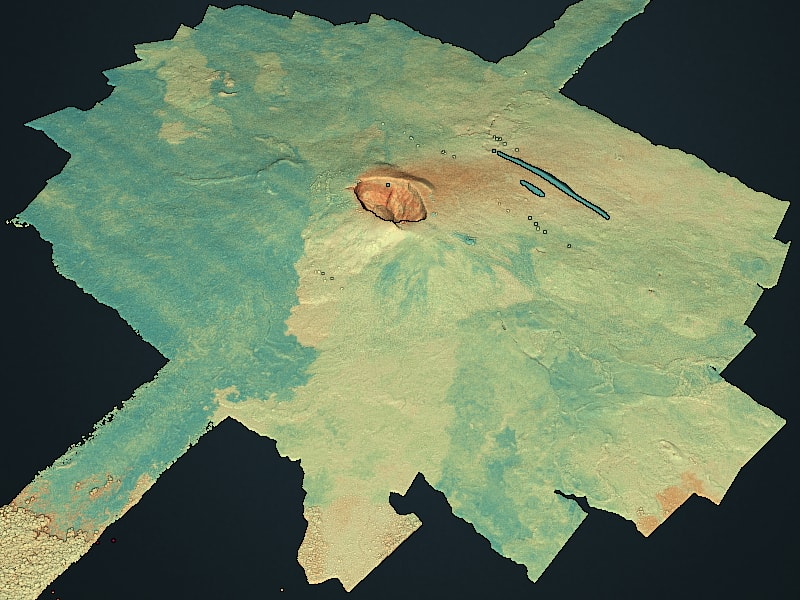
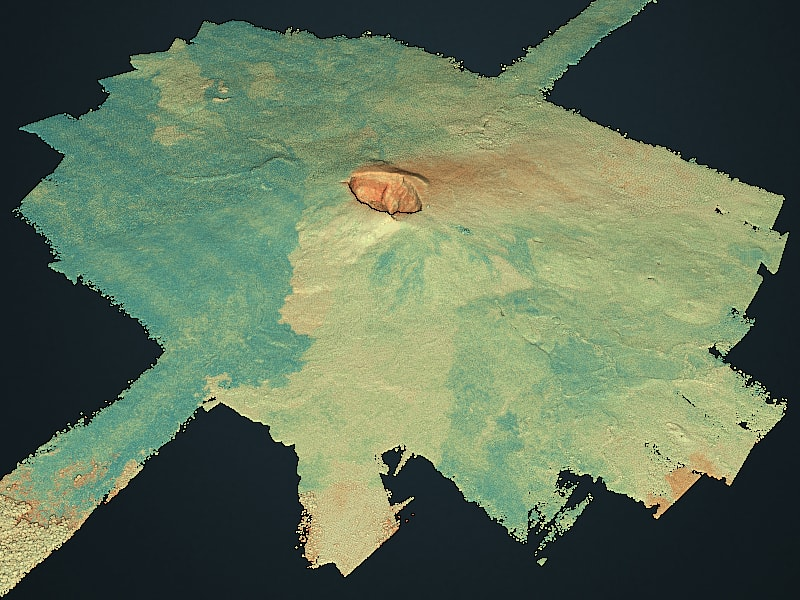
Move data link path, add explicit 'browse' link, update thumbnail with less noisy version.

Changed region(s): [[0.0, 0.0, 1.0, 1.0]]

diff --git a/data/kilauea.html b/data/kilauea.html
@@ -1,116 +1,6 @@
-<!DOCTYPE html>
-<html lang="en">
-<head>
-	<meta charset="utf-8">
-	<meta name="description" content="">
-	<meta name="author" content="">
-	<meta name="viewport" content="width=device-width, initial-scale=1.0, user-scalable=no">
-	<title>Potree Viewer</title>
-
-	<link rel="stylesheet" type="text/css" href="../build/potree/potree.css">
-	<link rel="stylesheet" type="text/css" href="../libs/jquery-ui/jquery-ui.min.css">
-	<link rel="stylesheet" type="text/css" href="../libs/perfect-scrollbar/css/perfect-scrollbar.css">
-	<link rel="stylesheet" type="text/css" href="../libs/openlayers3/ol.css">
-	<link rel="stylesheet" type="text/css" href="../libs/spectrum/spectrum.css">
-	<link rel="stylesheet" type="text/css" href="../libs/jstree/themes/mixed/style.css">
-    <link rel="stylesheet" href="../css/entwine.css" type="text/css">
-</head>
-<body>
-	<script src="../libs/jquery/jquery-3.1.1.min.js"></script>
-	<script src="../libs/spectrum/spectrum.js"></script>
-	<script src="../libs/perfect-scrollbar/js/perfect-scrollbar.jquery.js"></script>
-	<script src="../libs/jquery-ui/jquery-ui.min.js"></script>
-	<script src="../libs/three.js/build/three.min.js"></script>
-	<script src="../libs/other/BinaryHeap.js"></script>
-	<script src="../libs/tween/tween.min.js"></script>
-	<script src="../libs/d3/d3.js"></script>
-	<script src="../libs/proj4/proj4.js"></script>
-	<script src="../libs/openlayers3/ol.js"></script>
-	<script src="../libs/i18next/i18next.js"></script>
-	<script src="../libs/jstree/jstree.js"></script>
-	<script src="../build/potree/potree.js"></script>
-	<script src="../libs/plasio/js/laslaz.js"></script>
-    <script src="../libs/clipboard.min.js" type="text/javascript"></script>
-    <script type="text/javascript">
-        window.config = {
-            resource: 'kilauea',
-            edlStrength: 1,
-            pointSize: 3,
-            pointType: Potree.PointSizeType.FIXED,
-            material: Potree.PointColorType.INTENSITY_GRADIENT,
-            intensityRange: [0, 65536],
-            intensityBrightness: 0.18,
-            position: [-17266599.507, 2200053.468, 1809.513],
-            target: [-17266246.955, 2200818.568, 782.359],
-            annotations: [{
-                name: "Puʻu ʻŌʻō",
-                pos: [-17266198.860, 2200626.630, 860.710],
-                cpos: [-17266321.747, 2200763.819, 1207.182],
-                ctgt: [-17266320.945, 2200784.620, 594.822]
-            }, {
-                name: "Hiʻiaka Crater",
-                pos: [-17280267.940, 2198979.270, 978.800],
-                cpos: [-17280351.699, 2198879.858, 1210.292],
-                ctgt: [-17280186.390, 2199020.028, 993.929]
-            }, {
-                name: "Pauahi Crater",
-                pos: [-17279436.620, 2198351.710, 994.300],
-                cpos: [-17279049.765, 2198152.298, 1225.437],
-                ctgt: [-17279284.789, 2198437.478, 906.290],
-            }, {
-                name: "Pu'u Huluhulu",
-                pos: [-17277363.710, 2198683.420, 1047.790],
-                cpos: [-17277321.159, 2198679.615, 1292.821],
-                ctgt: [-17277322.415, 2198717.377, 1021.188]
-            }, {
-                name: "Fissure 9",
-                pos: [-17245101.620, 2208889.660, 246.560],
-                cpos: [-17245089.236, 2208881.496, 438.650],
-                ctgt: [-17245086.106, 2208894.391, 293.535],
-            }, {
-                name: "Fissure 10",
-                pos: [-17245771.410, 2208584.240, 261.420],
-                cpos: [-17245764.192, 2208580.524, 409.342],
-                ctgt: [-17245764.210, 2208581.779, 280.054]
-            }, {
-                name: "Fissure 11",
-                pos: [-17246078.000, 2208386.900, 267.750],
-                cpos: [-17246106.049, 2208367.051, 651.736],
-                ctgt: [-17246106.730, 2208391.925, 272.628]
-            }, {
-                name: "Fissure 12",
-                pos: [-17245972.670, 2208448.200, 267.820],
-                cpos: [-17245974.244, 2208428.976, 556.431],
-                ctgt: [-17245974.760, 2208447.840, 268.920]
-            }, {
-                name: "Fissure 24",
-                pos: [-17244866.480, 2209077.780, 238.560],
-                cpos: [-17244872.267, 2209009.327, 474.174],
-                ctgt: [-17244870.284, 2209053.706, 303.437]
-            }],
-            classificationFilter: [7]
-        };
-    </script>
-    <div id="potree_container">
-		<div id="potree_render_area"></div>
-		<div id="potree_sidebar_container"></div>
-	</div>
-        <a href="/" id="entwine_logo_container">
-            <img id="entwine_logo" src="/resources/images/entwine-logo.png"/>
-        </a>
-        <img id="entwine_copy" src="/resources/icons/entwine-share.svg"
-            title='Share a link with current view settings'
-            onclick="$('#entwine_copied').show()"
-            onmouseleave="$('#entwine_copied').hide()"
-        />
-        <div id="entwine_copied">Copied shareable link</div>
-        <img id="entwine_toggle"
-             state='on'
-             src="/resources/icons/entwine-annotations-on.svg"
-             title='Toggle annotations'
-             onclick="toggleAnnotations()"
-        />
-    <script type="text/javascript" src="script.js"></script>
-  </body>
+<html>
+    <head>
+        <meta http-equiv="refresh" content="0; url=../browse.html">
+    </head>
 </html>
 

diff --git a/browse.html b/browse.html
@@ -1,0 +1,116 @@
+<!DOCTYPE html>
+<html lang="en">
+<head>
+	<meta charset="utf-8">
+	<meta name="description" content="">
+	<meta name="author" content="">
+	<meta name="viewport" content="width=device-width, initial-scale=1.0, user-scalable=no">
+	<title>Potree Viewer</title>
+
+	<link rel="stylesheet" type="text/css" href="../build/potree/potree.css">
+	<link rel="stylesheet" type="text/css" href="../libs/jquery-ui/jquery-ui.min.css">
+	<link rel="stylesheet" type="text/css" href="../libs/perfect-scrollbar/css/perfect-scrollbar.css">
+	<link rel="stylesheet" type="text/css" href="../libs/openlayers3/ol.css">
+	<link rel="stylesheet" type="text/css" href="../libs/spectrum/spectrum.css">
+	<link rel="stylesheet" type="text/css" href="../libs/jstree/themes/mixed/style.css">
+    <link rel="stylesheet" href="../css/entwine.css" type="text/css">
+</head>
+<body>
+	<script src="../libs/jquery/jquery-3.1.1.min.js"></script>
+	<script src="../libs/spectrum/spectrum.js"></script>
+	<script src="../libs/perfect-scrollbar/js/perfect-scrollbar.jquery.js"></script>
+	<script src="../libs/jquery-ui/jquery-ui.min.js"></script>
+	<script src="../libs/three.js/build/three.min.js"></script>
+	<script src="../libs/other/BinaryHeap.js"></script>
+	<script src="../libs/tween/tween.min.js"></script>
+	<script src="../libs/d3/d3.js"></script>
+	<script src="../libs/proj4/proj4.js"></script>
+	<script src="../libs/openlayers3/ol.js"></script>
+	<script src="../libs/i18next/i18next.js"></script>
+	<script src="../libs/jstree/jstree.js"></script>
+	<script src="../build/potree/potree.js"></script>
+	<script src="../libs/plasio/js/laslaz.js"></script>
+    <script src="../libs/clipboard.min.js" type="text/javascript"></script>
+    <script type="text/javascript">
+        window.config = {
+            resource: 'kilauea-p',
+            edlStrength: 1,
+            pointSize: 3,
+            pointType: Potree.PointSizeType.FIXED,
+            material: Potree.PointColorType.INTENSITY_GRADIENT,
+            intensityRange: [0, 65536],
+            intensityBrightness: 0.18,
+            position: [-17266599.507, 2200053.468, 1809.513],
+            target: [-17266246.955, 2200818.568, 782.359],
+            annotations: [{
+                name: "Puʻu ʻŌʻō",
+                pos: [-17266198.860, 2200626.630, 860.710],
+                cpos: [-17266321.747, 2200763.819, 1207.182],
+                ctgt: [-17266320.945, 2200784.620, 594.822]
+            }, {
+                name: "Hiʻiaka Crater",
+                pos: [-17280267.940, 2198979.270, 978.800],
+                cpos: [-17280351.699, 2198879.858, 1210.292],
+                ctgt: [-17280186.390, 2199020.028, 993.929]
+            }, {
+                name: "Pauahi Crater",
+                pos: [-17279436.620, 2198351.710, 994.300],
+                cpos: [-17279049.765, 2198152.298, 1225.437],
+                ctgt: [-17279284.789, 2198437.478, 906.290],
+            }, {
+                name: "Pu'u Huluhulu",
+                pos: [-17277363.710, 2198683.420, 1047.790],
+                cpos: [-17277321.159, 2198679.615, 1292.821],
+                ctgt: [-17277322.415, 2198717.377, 1021.188]
+            }, {
+                name: "Fissure 9",
+                pos: [-17245101.620, 2208889.660, 246.560],
+                cpos: [-17245089.236, 2208881.496, 438.650],
+                ctgt: [-17245086.106, 2208894.391, 293.535],
+            }, {
+                name: "Fissure 10",
+                pos: [-17245771.410, 2208584.240, 261.420],
+                cpos: [-17245764.192, 2208580.524, 409.342],
+                ctgt: [-17245764.210, 2208581.779, 280.054]
+            }, {
+                name: "Fissure 11",
+                pos: [-17246078.000, 2208386.900, 267.750],
+                cpos: [-17246106.049, 2208367.051, 651.736],
+                ctgt: [-17246106.730, 2208391.925, 272.628]
+            }, {
+                name: "Fissure 12",
+                pos: [-17245972.670, 2208448.200, 267.820],
+                cpos: [-17245974.244, 2208428.976, 556.431],
+                ctgt: [-17245974.760, 2208447.840, 268.920]
+            }, {
+                name: "Fissure 24",
+                pos: [-17244866.480, 2209077.780, 238.560],
+                cpos: [-17244872.267, 2209009.327, 474.174],
+                ctgt: [-17244870.284, 2209053.706, 303.437]
+            }],
+            classificationFilter: [7]
+        };
+    </script>
+    <div id="potree_container">
+		<div id="potree_render_area"></div>
+		<div id="potree_sidebar_container"></div>
+	</div>
+        <a href="/" id="entwine_logo_container">
+            <img id="entwine_logo" src="/resources/images/entwine-logo.png"/>
+        </a>
+        <img id="entwine_copy" src="/resources/icons/entwine-share.svg"
+            title='Share a link with current view settings'
+            onclick="$('#entwine_copied').show()"
+            onmouseleave="$('#entwine_copied').hide()"
+        />
+        <div id="entwine_copied">Copied shareable link</div>
+        <img id="entwine_toggle"
+             state='on'
+             src="/resources/icons/entwine-annotations-on.svg"
+             title='Toggle annotations'
+             onclick="toggleAnnotations()"
+        />
+    <script type="text/javascript" src="script.js"></script>
+  </body>
+</html>
+

diff --git a/index.html b/index.html
@@ -35,18 +35,20 @@
                     class="center-block"
                     style="color:#192854;padding-top:36px;padding-bottom:24px"
                 >
-                    Kīlauea lidar
+                    Kīlauea LiDAR
                 </h1>
-                <a
-                    class="lead row center-block"
-                    href="/data/kilauea.html" }
-                >
-                    <img
-                        class="img-responsive thumb img-thumbnail"
-                        src="resources/images/kilauea.jpg"
-                    />
-                </a>
-                <div class="lead row">
+                <div class="lead row center-block">
+                    <a
+                        href="/browse.html" }
+                    >
+                        <img
+                            class="img-responsive thumb img-thumbnail"
+                            src="resources/images/kilauea.jpg"
+                        />
+                    </a>
+                        <h2><a href="browse.html">Click to browse LiDAR interactively</a></h2>
+                </div>
+                <div class="lead row" style="padding-top:42px">
                     <div class="col-xs-3"></div>
                     <div class="col-xs-3">
                         <a href="https://www.erdc.usace.army.mil/Locations/CRREL/Research.aspx">
